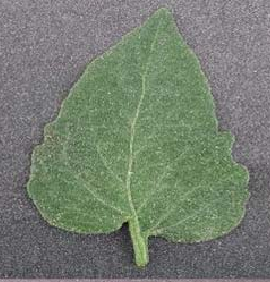
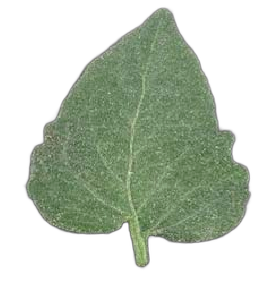
bgremove
added background removing facility

diff --git a/app1.py b/app1.py
@@ -5,7 +5,8 @@ import tensorflow as tf
 import numpy as np
 import sqlite3
 from flask_bcrypt import Bcrypt
-
+from PIL import Image
+from rembg import remove
 
 from tensorflow.compat.v1 import ConfigProto
 from tensorflow.compat.v1 import InteractiveSession
@@ -153,9 +154,23 @@ def upload():
         file_path = os.path.join(
             basepath, 'uploads', secure_filename(f.filename))
         f.save(file_path)
-
+        # removing the background
+        inpt=Image.open(file_path)
+        if(".jpg" in f.filename):
+            temp=f.filename.replace(".jpg",".png")
+        else:
+            temp=f.filename
+        new_path=os.path.join(basepath,'uploads',secure_filename(temp))
+        inpt.save(new_path)
+        inpt=Image.open(new_path)
+        output=remove(inpt)
+        """ fpp=str(file_path)
+        if(".jpg" in fpp):
+            print(fpp)
+            fpp.replace(".jpg",".png") """
+        output.save(new_path)
         # Make prediction
-        preds = model_predict(file_path, model)
+        preds = model_predict(new_path, model)
         result=preds
         return result
     return None

diff --git a/app.py b/app.py
@@ -7,7 +7,8 @@ import re
 import numpy as np
 import tensorflow as tf
 import tensorflow as tf
-
+from PIL import Image
+from rembg import remove
 from tensorflow.compat.v1 import ConfigProto
 from tensorflow.compat.v1 import InteractiveSession
 
@@ -112,16 +113,10 @@ def upload():
         file_path = os.path.join(
             basepath, 'uploads', secure_filename(f.filename))
         f.save(file_path)
-
-        # Make prediction
-        preds = model_predict(file_path, model)
-        result=preds
-        return result
-    return None
-
-@app.route('/signup.html', methods=['GET', 'POST'])
-def signup():
-    if request.method == 'POST':
+        # input=Image.open(file_path)
+        # output=remove(input)
+        # input.close()
+        # output.save(file_path)
         email=request.form['email']
         user=request.form['username']
         pas=request.form['password']
